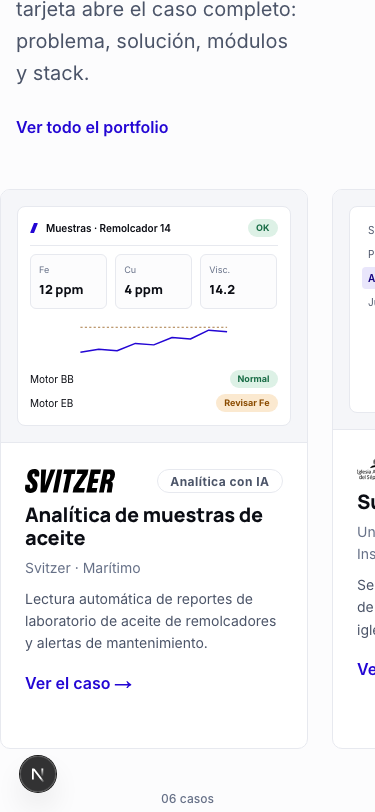
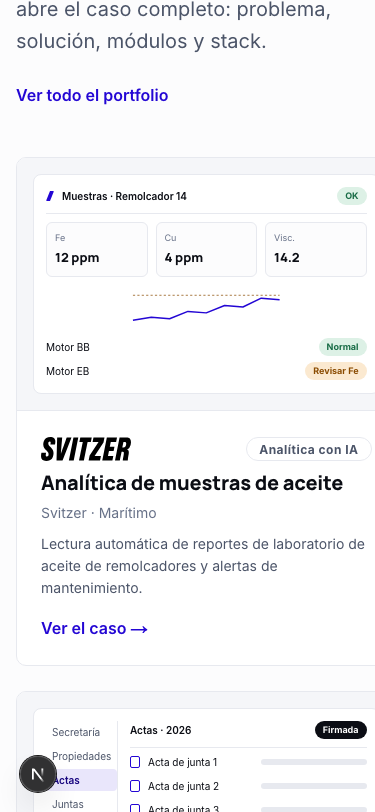
fix(trabajo): lista vertical en teléfono y tableta; botones de ocultar bloque a 32 px

diff --git a/content/avance.ts b/content/avance.ts
@@ -165,7 +165,7 @@ export const PASOS: Paso[] = [
     estado: "en_revision",
     ruta: "/es#trabajo",
     revisar: [
-      "Escritorio: al llegar a «Trabajo» la sección se fija y, mientras bajás, el carril se desplaza de derecha a izquierda; la tarjeta que pasa por el centro crece y las demás bajan de tono (scroll-timeline nativo, sin JavaScript). En navegadores sin soporte y en teléfono: carril con scroll horizontal y snap.",
+      "Escritorio: al llegar a «Trabajo» la sección se fija y, mientras bajás, el carril se desplaza de derecha a izquierda; la tarjeta que pasa por el centro crece y las demás bajan de tono (scroll-timeline nativo, sin JavaScript). En navegadores sin soporte: carril con scroll horizontal y snap. En teléfono y tableta: lista vertical (una o dos columnas), sin recortes.",
       "Movelo con el mouse sobre una tarjeta: se inclina hasta 6° y una luz sigue el puntero.",
       "Seis casos destacados: Svitzer, Unión Adventista, Academyx, B&B Real Estate, Smart Church (Revive) y John Henry. Cada visual es una composición en HTML del tipo de sistema, no una captura. Cada tarjeta abre /es/portfolio/[slug] (se construye en el paso 8).",
       "Los datos de stack, módulos, problema y solución de los 13 sistemas se leyeron de sus repos en esta máquina (Svitzer no tiene repo aquí). En content/portfolio.ts cada caso tiene publicable; los de clientes no autorizados siguen en false.",
@@ -174,7 +174,7 @@ export const PASOS: Paso[] = [
     lighthouseMovil: 98,
     notas: [
       "Lighthouse móvil en /es (build local): rendimiento 95–98, accesibilidad 100 tras quitar un aria-label que no coincidía con el texto visible, buenas prácticas 96. Escritorio 100/100/96.",
-      "Teléfonos (quick, 6 modelos actuales, motores reales de Safari y Chrome): primera corrida con 5 recortes en los visuales de las tarjetas (altura fija); se pasó a altura por contenido.",
+      "Teléfonos (quick, 6 modelos actuales, motores reales de Safari y Chrome): primera corrida con recortes en los visuales (altura fija) y en el carril horizontal de teléfono; se pasó a altura por contenido y a lista vertical en pantallas chicas.",
     ],
     actualizado: "2026-10-09",
   },

diff --git a/src/components/sections/featured-work.css b/src/components/sections/featured-work.css
@@ -5,10 +5,15 @@
 .fw-head-l { display: grid; gap: var(--s-4); justify-items: start; }
 .fw-head-r { display: grid; gap: var(--s-4); justify-items: start; align-content: end; }
 @media (min-width: 1024px) { .fw-head { grid-template-columns: minmax(0, 7fr) minmax(0, 5fr); align-items: end; } }
-.fw-rail-outer { overflow-x: auto; overflow-y: hidden; scroll-snap-type: x mandatory; scrollbar-width: none; -webkit-overflow-scrolling: touch; }
-.fw-rail-outer::-webkit-scrollbar { display: none; }
-.fw-rail { list-style: none; display: flex; gap: var(--s-6); width: max-content; min-width: 100%; padding-block: var(--s-2); }
-.fw-rail > li { scroll-snap-align: start; flex: none; width: min(420px, 82vw); }
+/* Teléfono y tableta: lista vertical, sin carril que recorte tarjetas */
+.fw-rail { list-style: none; display: grid; gap: var(--s-6); padding-block: var(--s-2); }
+@media (min-width: 640px) and (max-width: 1023px) { .fw-rail { grid-template-columns: repeat(2, minmax(0, 1fr)); } }
+@media (min-width: 1024px) {
+  .fw-rail-outer { overflow-x: auto; overflow-y: hidden; scroll-snap-type: x mandatory; scrollbar-width: none; }
+  .fw-rail-outer::-webkit-scrollbar { display: none; }
+  .fw-rail { display: flex; width: max-content; min-width: 100%; }
+  .fw-rail > li { scroll-snap-align: start; flex: none; width: 440px; }
+}
 .fw-foot { display: flex; justify-content: space-between; gap: var(--s-4); }
 .fw-hint { display: none; }
 

diff --git a/src/components/sections/capabilities.css b/src/components/sections/capabilities.css
@@ -98,7 +98,7 @@
 .cs-blocks { display: grid; gap: var(--s-2); }
 .cs-block { border: 1px dashed var(--line-strong); border-radius: var(--r-sm); padding: var(--s-2); display: grid; gap: var(--s-2); background: var(--surface); animation: rise-in 300ms var(--ease-out) both; }
 .cs-block-h { display: flex; justify-content: space-between; align-items: center; font-weight: var(--w-medium); }
-.cs-x { width: 28px; height: 28px; border: 0; border-radius: var(--r-sm); background: transparent; color: var(--fg-2); font-size: 16px; cursor: pointer; }
+.cs-x { width: 32px; height: 32px; border: 0; border-radius: var(--r-sm); background: transparent; color: var(--fg-2); font-size: 16px; cursor: pointer; }
 .cs-x:hover { background: var(--panel); color: var(--fg); }
 .cs-block-art { display: grid; gap: 6px; }
 .cs-block-art i, .cs-block-art b, .cs-block-art em { display: block; border-radius: 3px; background: var(--line); }
